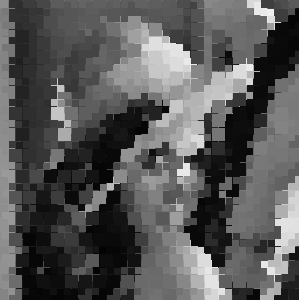
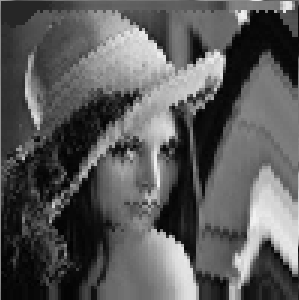
.

diff --git a/Combination/Digital Zoom/code.py b/Combination/Digital Zoom/code.py
@@ -2,40 +2,46 @@ import cv2
 import numpy as np
 
 image=cv2.imread('image.png')
-image1=cv2.cvtColor(image, cv2.COLOR_BGR2GRAY)
-image2=cv2.cvtColor(image, cv2.COLOR_BGR2GRAY)
-temp=cv2.cvtColor(image, cv2.COLOR_BGR2GRAY)
-size=3
+visit=cv2.cvtColor(image, cv2.COLOR_BGR2GRAY)
+zoom=cv2.cvtColor(image, cv2.COLOR_BGR2GRAY)
+image=cv2.cvtColor(image, cv2.COLOR_BGR2GRAY)
 m=len(image)
 n=len(image[0])
 
-for i in range(m):
-    for j in range(n):
-        temp[i][j]=0
+def get(i, j, x, y, result):
+    if i<0 or j<0 or i>=m or j>=n or x<0 or y<0 or x>=m or y>=n:
+        return
+    if visit[x][y]==0:
+        result.append([[x, y], image[i][j]])
 
-def check(i, j, result):
+def set(i, j, value):
     if i<0 or j<0 or i>=m or j>=n:
         return
-    if temp[i][j]==0:
-        temp[i][j]=1
-        result.append([i, j])
+    zoom[i][j]=value
 
-def get(i, j, value):
-    if i<0 or j<0 or i>=m or j>=n:
-        return
-    image2[i][j]=value
+for k in range(10):
+    start=[20, 20]
+    array=[[start, image[start[0]][start[1]]]]
+    for i in range(m):
+        for j in range(n):
+            visit[i][j]=0
+    while array!=[]:
+        value=array.pop()
+        i, j=value[0][0], value[0][1]
+        visit[i][j]=1
+        result=[]
+        get(i-1, j-1, i-3, j-3, result)
+        get(i-1, j, i-3, j, result)
+        get(i+1, j-1, i+3, j-3, result)
+        get(i, j-1, i, j-3, result)
+        get(i+1, j, i+3, j, result)
+        get(i+1, j+1, i+3, j+3, result)
+        get(i+1, j, i+3, j, result)
+        get(i-1, j+1, i-3, j+3, result)
+        array+=result
+        for p in range(i-1, i+2):
+            for q in range(j-1, j+2):
+                set(p, q, value[1])
+    image=zoom.copy()
 
-start=[50, 50]
-array=[start]
-while array!=[]:
-    value=array.pop()
-    stack=[]
-    check(value[0]-2*size-1, value[1]-2*size-1, stack)
-    check(value[0]-2*size-1, value[1]+2*size+1, stack)
-    check(value[0]+2*size+1, value[1]-2*size-1, stack)
-    check(value[0]+2*size+1, value[1]+2*size+1, stack)
-    array+=stack
-    for i in range(value[0]-2*size, value[0]+2*size+1):
-        for j in range(value[1]-2*size, value[1]+2*size+1):
-            get(i, j, image1[value[0]][value[1]])
-cv2.imwrite('zoom.png', image2)
+cv2.imwrite('zoom.png', image)
